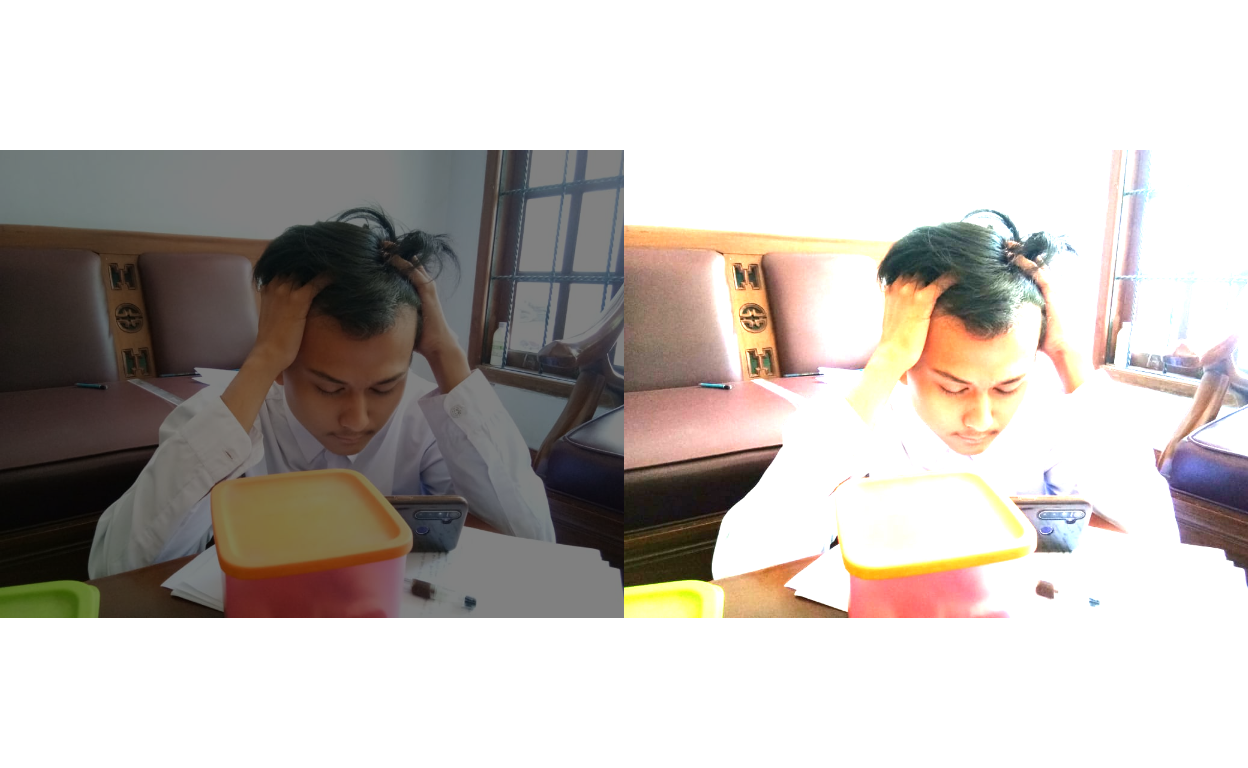
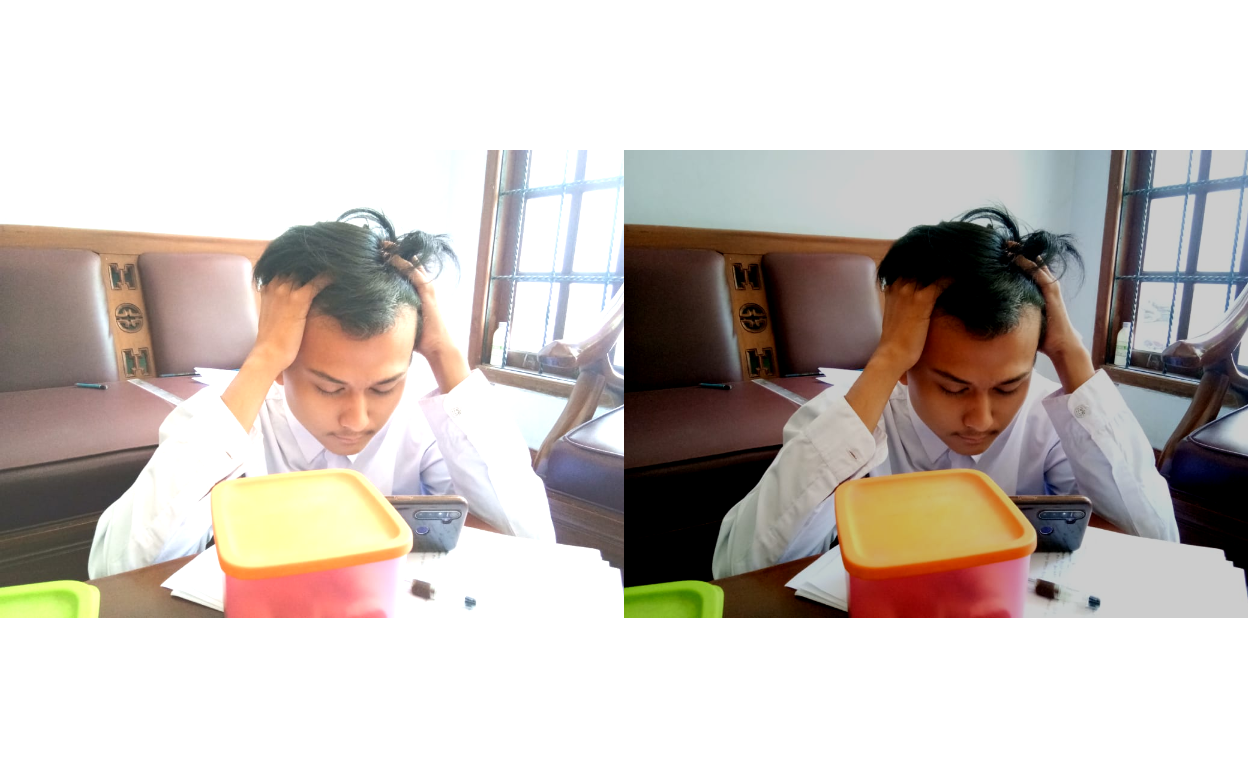
first commit

diff --git a/_site/olahgambar.html b/_site/olahgambar.html
@@ -104,7 +104,7 @@ code span.wa { color: #5e5e5e; font-style: italic; } /* Warning */
   <!--radix_placeholder_rmarkdown_metadata-->
 
   <script type="text/json" id="radix-rmarkdown-metadata">
-  {"type":"list","attributes":{"names":{"type":"character","attributes":{},"value":["title","theme"]}},"value":[{"type":"character","attributes":{},"value":["Tutorial Olah Gambar Dengan RStudio"]},{"type":"character","attributes":{},"value":["temaku.css"]}]}
+  {"type":"list","attributes":{"names":{"type":"character","attributes":{},"value":["title"]}},"value":[{"type":"character","attributes":{},"value":["Tutorial Olah Gambar Dengan RStudio"]}]}
   </script>
   <!--/radix_placeholder_rmarkdown_metadata-->
   <!--radix_placeholder_navigation_in_header-->
@@ -2401,15 +2401,31 @@ code span.wa { color: #5e5e5e; font-style: italic; } /* Warning */
 
 <div class="d-article">
 <h1 id="mengatur-lokasi-kerja">Mengatur Lokasi Kerja</h1>
-Mengatur lokasi kerja dengan cara membuka folder kerja melalui explorer, dan menyalin lokasi folder Maka akan berupa seperti ini : <br> (C:xGambar) <br> Dan jika kita setwd dengan direktori tersebut maka akan muncul eror seperti ini : <br> (Error: ‘ M’ is an unrecognized escape in character string starting "“D: M”) <br> Oleh sebab itu, kita harus mengganti “" dengan”/"
+<p>Mengatur lokasi kerja dengan cara membuka folder kerja melalui explorer, dan menyalin lokasi folder Maka akan berupa seperti ini :</p>
+<p>(C:xGambar) Dan jika kita setwd dengan direktori tersebut maka akan muncul eror seperti ini : (Error: ‘ M’ is an unrecognized escape in character string starting "“D: M”) Oleh sebab itu, kita harus mengganti “" dengan”/"</p>
 <div class="layout-chunk" data-layout="l-body">
 <div class="sourceCode">
 <pre class="sourceCode r"><code class="sourceCode r"><span class='fu'><a href='https://rdrr.io/r/base/getwd.html'>setwd</a></span><span class='op'>(</span><span class='st'>"C:/Users/windows x/Documents/Olah Gambar"</span><span class='op'>)</span>
 </code></pre>
 </div>
 </div>
+<h1 id="instal-package">Instal Package</h1>
+<p>Kita harus menginstall Package agar bisa berjalan lancar, jika sudah bisa dilewati step ini</p>
+<div class="layout-chunk" data-layout="l-body">
+<div class="sourceCode">
+<pre class="sourceCode r"><code class="sourceCode r"><span class='kw'>if</span> <span class='op'>(</span><span class='op'>!</span><span class='fu'><a href='https://rdrr.io/r/base/ns-load.html'>requireNamespace</a></span><span class='op'>(</span><span class='st'>"BiocManager"</span>, quietly <span class='op'>=</span> <span class='cn'>TRUE</span><span class='op'>)</span><span class='op'>)</span>
+    <span class='fu'><a href='https://rdrr.io/r/utils/install.packages.html'>install.packages</a></span><span class='op'>(</span><span class='st'>"BiocManager"</span><span class='op'>)</span>
+
+<span class='fu'>BiocManager</span><span class='fu'>::</span><span class='fu'><a href='https://rdrr.io/pkg/BiocManager/man/install.html'>install</a></span><span class='op'>(</span><span class='st'>"EBImage"</span><span class='op'>)</span>
+</code></pre>
+</div>
+<pre><code>package &#39;EBImage&#39; successfully unpacked and MD5 sums checked
+
+The downloaded binary packages are in
+    C:\Users\windows x\AppData\Local\Temp\RtmpS6IwmU\downloaded_packages</code></pre>
+</div>
 <h1 id="memanggil-package">Memanggil Package</h1>
-Kita harus memanggil library EBImage setiap kali kita membutuhkan gambar, dengan code :
+<p>Kita harus memanggil library EBImage setiap kali kita membutuhkan gambar, dengan code :</p>
 <div class="layout-chunk" data-layout="l-body">
 <div class="sourceCode">
 <pre class="sourceCode r"><code class="sourceCode r"><span class='kw'><a href='https://rdrr.io/r/base/library.html'>library</a></span><span class='op'>(</span><span class='va'><a href='https://github.com/aoles/EBImage'>EBImage</a></span><span class='op'>)</span>
@@ -2417,7 +2433,7 @@ Kita harus memanggil library EBImage setiap kali kita membutuhkan gambar, dengan
 </div>
 </div>
 <h1 id="menginisiasi-gambar-dalam-variabel">Menginisiasi Gambar Dalam Variabel</h1>
-Kita memasukkan gambar kedalam variabel sehingga lebih mudah ketika dipanggil dengan menggunakan code: Dikarenakan gambar yang mau saya panggil bernama foto.jpeg, bisa dirubah sesuai dengan nama dan ekstensi foto masing-masing
+<p>Kita memasukkan gambar kedalam variabel sehingga lebih mudah ketika dipanggil dengan menggunakan code: Dikarenakan gambar yang mau saya panggil bernama foto.jpeg, bisa dirubah sesuai dengan nama dan ekstensi foto masing-masing</p>
 <div class="layout-chunk" data-layout="l-body">
 <div class="sourceCode">
 <pre class="sourceCode r"><code class="sourceCode r"><span class='fu'><a href='https://rdrr.io/r/base/getwd.html'>setwd</a></span><span class='op'>(</span><span class='st'>"C:/Users/windows x/Documents/Olah Gambar"</span><span class='op'>)</span>
@@ -2426,7 +2442,7 @@ Kita memasukkan gambar kedalam variabel sehingga lebih mudah ketika dipanggil de
 <span class='fu'><a href='https://rdrr.io/pkg/EBImage/man/display.html'>display</a></span><span class='op'>(</span><span class='va'>Image</span><span class='op'>)</span>
 </code></pre>
 </div>
-<img src="olahgambar_files/figure-html5/unnamed-chunk-3-1.png" width="624" />
+<img src="olahgambar_files/figure-html5/unnamed-chunk-4-1.png" width="624" />
 <div class="sourceCode">
 <pre class="sourceCode r"><code class="sourceCode r"><span class='fu'><a href='https://rdrr.io/r/base/print.html'>print</a></span><span class='op'>(</span><span class='va'>Image</span><span class='op'>)</span>
 </code></pre>
@@ -2449,7 +2465,7 @@ imageData(object)[1:5,1:6,1]
 <h1 id="sesi-editing">Sesi Editing</h1>
 <p>Saat ini kita akan mengedit gambar kita sedemikian rupa, dengan menggunakan kode yang ada. Terdapat beberapa pilihan pengaturan gambar:</p>
 <h2 id="pengaturan-kecerahan">Pengaturan Kecerahan</h2>
-Kita dapat mengatur kecerahan gambar sesuai dengan yang kita inginkan, dengan cara menambahkan simbol + atau -
+<p>Kita dapat mengatur kecerahan gambar sesuai dengan yang kita inginkan, dengan cara menambahkan simbol + atau -</p>
 <div class="layout-chunk" data-layout="l-body">
 <div class="sourceCode">
 <pre class="sourceCode r"><code class="sourceCode r"><span class='fu'><a href='https://rdrr.io/r/base/getwd.html'>setwd</a></span><span class='op'>(</span><span class='st'>"C:/Users/windows x/Documents/Olah Gambar"</span><span class='op'>)</span>
@@ -2461,10 +2477,10 @@ Kita dapat mengatur kecerahan gambar sesuai dengan yang kita inginkan, dengan ca
 <span class='fu'><a href='https://rdrr.io/r/graphics/plot.default.html'>plot</a></span><span class='op'>(</span><span class='va'>Image2</span><span class='op'>)</span>
 </code></pre>
 </div>
-<p><img src="olahgambar_files/figure-html5/unnamed-chunk-4-1.png" width="624" /></p>
+<p><img src="olahgambar_files/figure-html5/unnamed-chunk-5-1.png" width="624" /></p>
 </div>
 <h2 id="pengaturan-kontras">Pengaturan Kontras</h2>
-Kita dapat mengatur kontras pada gambar kita menggunakan simbol *, dengan contoh :
+<p>Kita dapat mengatur kontras pada gambar kita menggunakan simbol *, dengan contoh :</p>
 <div class="layout-chunk" data-layout="l-body">
 <div class="sourceCode">
 <pre class="sourceCode r"><code class="sourceCode r"><span class='fu'><a href='https://rdrr.io/r/base/getwd.html'>setwd</a></span><span class='op'>(</span><span class='st'>"C:/Users/windows x/Documents/Olah Gambar"</span><span class='op'>)</span>
@@ -2476,10 +2492,10 @@ Kita dapat mengatur kontras pada gambar kita menggunakan simbol *, dengan contoh
 <span class='fu'><a href='https://rdrr.io/r/graphics/plot.default.html'>plot</a></span><span class='op'>(</span><span class='va'>Image4</span><span class='op'>)</span>
 </code></pre>
 </div>
-<p><img src="olahgambar_files/figure-html5/unnamed-chunk-5-1.png" width="624" /></p>
+<p><img src="olahgambar_files/figure-html5/unnamed-chunk-6-1.png" width="624" /></p>
 </div>
 <h2 id="pengaturan-gamma">Pengaturan Gamma</h2>
-Kita dapat mengatur gamma pada foto kita menggunakan simbol ^,dengan contoh :
+<p>Kita dapat mengatur gamma pada foto kita menggunakan simbol ^,dengan contoh :</p>
 <div class="layout-chunk" data-layout="l-body">
 <div class="sourceCode">
 <pre class="sourceCode r"><code class="sourceCode r"><span class='fu'><a href='https://rdrr.io/r/base/getwd.html'>setwd</a></span><span class='op'>(</span><span class='st'>"C:/Users/windows x/Documents/Olah Gambar"</span><span class='op'>)</span>
@@ -2491,21 +2507,21 @@ Kita dapat mengatur gamma pada foto kita menggunakan simbol ^,dengan contoh :
 <span class='fu'><a href='https://rdrr.io/r/graphics/plot.default.html'>plot</a></span><span class='op'>(</span><span class='va'>Image6</span><span class='op'>)</span>
 </code></pre>
 </div>
-<p><img src="olahgambar_files/figure-html5/unnamed-chunk-6-1.png" width="624" /></p>
+<p><img src="olahgambar_files/figure-html5/unnamed-chunk-7-1.png" width="624" /></p>
 </div>
 <h2 id="pengaturan-pemotongan-gambar">Pengaturan Pemotongan Gambar</h2>
-Kita juga dapat memotong gambar sesuai yang kita inginkan, sebagai berikut :
+<p>Kita juga dapat memotong gambar sesuai yang kita inginkan, sebagai berikut :</p>
 <div class="layout-chunk" data-layout="l-body">
 <div class="sourceCode">
 <pre class="sourceCode r"><code class="sourceCode r"><span class='fu'><a href='https://rdrr.io/r/base/getwd.html'>setwd</a></span><span class='op'>(</span><span class='st'>"C:/Users/windows x/Documents/Olah Gambar"</span><span class='op'>)</span>
 <span class='kw'><a href='https://rdrr.io/r/base/library.html'>library</a></span><span class='op'>(</span><span class='va'><a href='https://github.com/aoles/EBImage'>EBImage</a></span><span class='op'>)</span>
-<span class='fu'><a href='https://rdrr.io/pkg/EBImage/man/display.html'>display</a></span><span class='op'>(</span><span class='va'>Image</span><span class='op'>[</span><span class='fl'>80</span><span class='op'>:</span><span class='fl'>220</span>, <span class='fl'>1</span><span class='op'>:</span><span class='fl'>20</span>,<span class='op'>]</span><span class='op'>)</span>
+<span class='fu'><a href='https://rdrr.io/pkg/EBImage/man/display.html'>display</a></span><span class='op'>(</span><span class='va'>Image</span><span class='op'>[</span><span class='fl'>80</span><span class='op'>:</span><span class='fl'>220</span>, <span class='fl'>1</span><span class='op'>:</span><span class='fl'>200</span>,<span class='op'>]</span><span class='op'>)</span>
 </code></pre>
 </div>
-<p><img src="olahgambar_files/figure-html5/unnamed-chunk-7-1.png" width="624" /></p>
+<p><img src="olahgambar_files/figure-html5/unnamed-chunk-8-1.png" width="624" /></p>
 </div>
 <h1 id="pengaturan-kemiringan">Pengaturan Kemiringan</h1>
-Kita dapat memutar gambar sesuai dengan yang kita inginkan, baik 45 derajat maupun 90 derajat dengan kode:
+<p>Kita dapat memutar gambar sesuai dengan yang kita inginkan, baik 45 derajat maupun 90 derajat dengan kode:</p>
 <div class="layout-chunk" data-layout="l-body">
 <div class="sourceCode">
 <pre class="sourceCode r"><code class="sourceCode r"><span class='fu'><a href='https://rdrr.io/r/base/getwd.html'>setwd</a></span><span class='op'>(</span><span class='st'>"C:/Users/windows x/Documents/Olah Gambar"</span><span class='op'>)</span>
@@ -2514,10 +2530,10 @@ Kita dapat memutar gambar sesuai dengan yang kita inginkan, baik 45 derajat maup
 <span class='fu'><a href='https://rdrr.io/pkg/EBImage/man/display.html'>display</a></span><span class='op'>(</span><span class='va'>Imagetr</span><span class='op'>)</span>
 </code></pre>
 </div>
-<p><img src="olahgambar_files/figure-html5/unnamed-chunk-8-1.png" width="624" /></p>
+<p><img src="olahgambar_files/figure-html5/unnamed-chunk-9-1.png" width="624" /></p>
 </div>
 <h2 id="pengaturan-warna">Pengaturan warna</h2>
-Kita juga dapat mengatur warna kita, misalnya saja kali ini saya contohkan untuk merubah warnanya menjadi grayscale atau abu-abu:
+<p>Kita juga dapat mengatur warna kita, misalnya saja kali ini saya contohkan untuk merubah warnanya menjadi grayscale atau abu-abu:</p>
 <div class="layout-chunk" data-layout="l-body">
 <div class="sourceCode">
 <pre class="sourceCode r"><code class="sourceCode r"><span class='fu'><a href='https://rdrr.io/r/base/getwd.html'>setwd</a></span><span class='op'>(</span><span class='st'>"C:/Users/windows x/Documents/Olah Gambar"</span><span class='op'>)</span>
@@ -2526,34 +2542,16 @@ Kita juga dapat mengatur warna kita, misalnya saja kali ini saya contohkan untuk
 <span class='fu'><a href='https://rdrr.io/pkg/EBImage/man/display.html'>display</a></span><span class='op'>(</span><span class='va'>Image</span><span class='op'>)</span>
 </code></pre>
 </div>
-<img src="olahgambar_files/figure-html5/unnamed-chunk-9-1.png" width="624" />
-<div class="sourceCode">
-<pre class="sourceCode r"><code class="sourceCode r"><span class='fu'><a href='https://rdrr.io/r/base/print.html'>print</a></span><span class='op'>(</span><span class='va'>Image</span><span class='op'>)</span>
-</code></pre>
-</div>
-<pre><code>Image 
-  colorMode    : Grayscale 
-  storage.mode : double 
-  dim          : 1040 780 3 
-  frames.total : 3 
-  frames.render: 3 
-
-imageData(object)[1:5,1:6,1]
-          [,1]      [,2]      [,3]      [,4]      [,5]      [,6]
-[1,] 0.8509804 0.8509804 0.8509804 0.8509804 0.8509804 0.8509804
-[2,] 0.8509804 0.8509804 0.8509804 0.8509804 0.8509804 0.8509804
-[3,] 0.8549020 0.8549020 0.8549020 0.8549020 0.8549020 0.8549020
-[4,] 0.8549020 0.8549020 0.8549020 0.8549020 0.8549020 0.8549020
-[5,] 0.8549020 0.8549020 0.8549020 0.8549020 0.8549020 0.8549020</code></pre>
+<img src="olahgambar_files/figure-html5/unnamed-chunk-10-1.png" width="624" />
 <div class="sourceCode">
 <pre class="sourceCode r"><code class="sourceCode r"><span class='fu'><a href='https://rdrr.io/pkg/EBImage/man/Image.html'>colorMode</a></span><span class='op'>(</span><span class='va'>Image</span><span class='op'>)</span> <span class='op'>&lt;-</span> <span class='va'>Color</span>
 <span class='fu'><a href='https://rdrr.io/pkg/EBImage/man/display.html'>display</a></span><span class='op'>(</span><span class='va'>Image</span><span class='op'>)</span>
 </code></pre>
 </div>
-<p><img src="olahgambar_files/figure-html5/unnamed-chunk-9-2.png" width="624" /></p>
+<p><img src="olahgambar_files/figure-html5/unnamed-chunk-10-2.png" width="624" /></p>
 </div>
 <h2 id="pengaturan-filter">Pengaturan Filter</h2>
-Mengatur filter merupakan tahap yang paling sulit untuk dijalankan, namun kita dapat memberi efek pada foto kita seperti efek blur dengan contoh :
+<p>Mengatur filter merupakan tahap yang paling sulit untuk dijalankan, namun kita dapat memberi efek pada foto kita seperti efek blur dengan contoh :</p>
 <div class="layout-chunk" data-layout="l-body">
 <div class="sourceCode">
 <pre class="sourceCode r"><code class="sourceCode r"><span class='fu'><a href='https://rdrr.io/r/base/getwd.html'>setwd</a></span><span class='op'>(</span><span class='st'>"C:/Users/windows x/Documents/Olah Gambar"</span><span class='op'>)</span>
@@ -2565,7 +2563,7 @@ Mengatur filter merupakan tahap yang paling sulit untuk dijalankan, namun kita d
 <span class='fu'><a href='https://rdrr.io/pkg/EBImage/man/display.html'>display</a></span><span class='op'>(</span><span class='va'>Image.fLow</span><span class='op'>)</span>
 </code></pre>
 </div>
-<img src="olahgambar_files/figure-html5/unnamed-chunk-10-1.png" width="624" />
+<img src="olahgambar_files/figure-html5/unnamed-chunk-11-1.png" width="624" />
 <div class="sourceCode">
 <pre class="sourceCode r"><code class="sourceCode r"><span class='va'>fHigh</span> <span class='op'>&lt;-</span> <span class='fu'><a href='https://rdrr.io/r/base/matrix.html'>matrix</a></span><span class='op'>(</span><span class='fl'>1</span>, nc <span class='op'>=</span> <span class='fl'>3</span>, nr <span class='op'>=</span> <span class='fl'>3</span><span class='op'>)</span>
 <span class='va'>fHigh</span><span class='op'>[</span><span class='fl'>2</span>, <span class='fl'>2</span><span class='op'>]</span> <span class='op'>&lt;-</span> <span class='op'>-</span><span class='fl'>8</span>
@@ -2573,7 +2571,7 @@ Mengatur filter merupakan tahap yang paling sulit untuk dijalankan, namun kita d
 <span class='fu'><a href='https://rdrr.io/pkg/EBImage/man/display.html'>display</a></span><span class='op'>(</span><span class='va'>Image.fHigh</span><span class='op'>)</span>
 </code></pre>
 </div>
-<p><img src="olahgambar_files/figure-html5/unnamed-chunk-10-2.png" width="624" /></p>
+<p><img src="olahgambar_files/figure-html5/unnamed-chunk-11-2.png" width="624" /></p>
 </div>
 <div class="sourceCode" id="cb3"><pre class="sourceCode r distill-force-highlighting-css"><code class="sourceCode r"></code></pre></div>
 <!--radix_placeholder_article_footer-->
